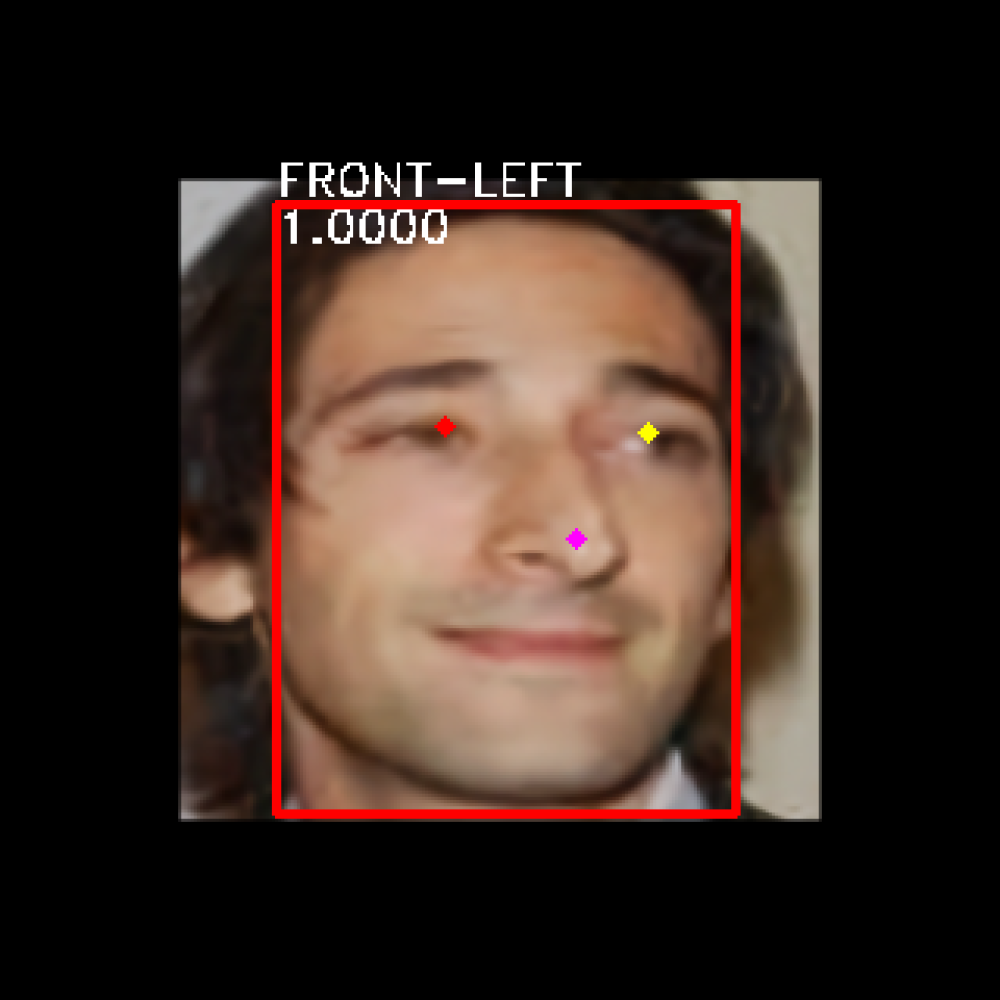
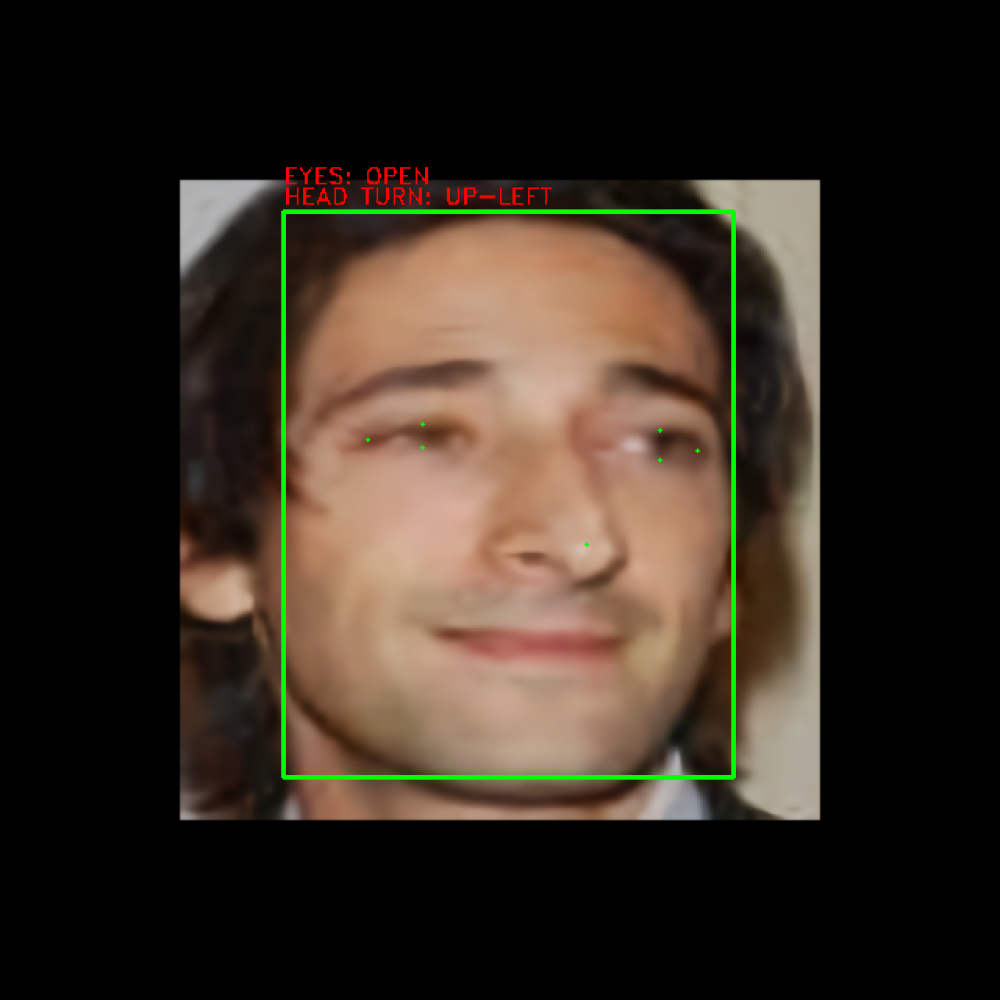
update readme file add result image

diff --git a/README.md b/README.md
@@ -1,18 +1,59 @@
-## Example of using `tflite` model to detect faces with landmarks
+## Example of using ResNet18 and RetinaFace Slim `tflite` models to detect faces with landmarks
 
 ### General
-This is the simple usage of `tflite` model to detect faces with landmarks.
-In addition, a simple detection of head turn has been added.
 
-### Original model
+This project showcases the utilization of two packages, namely resnet18 and slim, for face detection with landmarks.
+Each package contains a main.py file that demonstrates the functionality of the respective model.
+
+This project contains two packages - `resnet18` and `slim` - for detecting faces and facial landmarks in images using
+TensorFlow Lite models.
+
+### Original models
+
+ResNet18 model was taken from this repo: https://github.com/DefTruth/torchlm
+
 Slim model was taken from this repo: https://github.com/biubug6/Face-Detector-1MB-with-landmark
 
 ### Convertation
+
 Convertation to `tflite` was made with help of this repo: https://github.com/AlexanderLutsenko/nobuco
 
-### Run
+### Run ResNet18
+
+The available arguments are:
+
+-l, --landmarks_number: Number of landmarks to detect, can be set to 29 or 98, default 98
+-i, --image_path: Path to input image, default ./../Adrien_Brody.png
+
 To test model simply run this command:
 
 ```bash
-python main.py -i Adrien_Brody.png
+python resnet18/main.py -i /path/to/image
 ```
+
+### Run Slim
+
+The available arguments are:
+
+-i, --image_path: Path to input image, default ./../Adrien_Brody.png
+
+To test model simply run this command:
+
+```bash
+python slim/main.py -i /path/to/image
+```
+
+### Results
+
+All models by default save results to `result.png` file
+
+- slim model detects:
+  - face
+  - head turn: up/down-left/right
+- resnet18 model with 29 landmarks number detects: 
+  - face
+  - head turn: up/down-left/right
+- resnet18 model with 98 landmarks number detects: 
+  - face
+  - head turn: up/down-left/right
+  - eyes status: open/close
